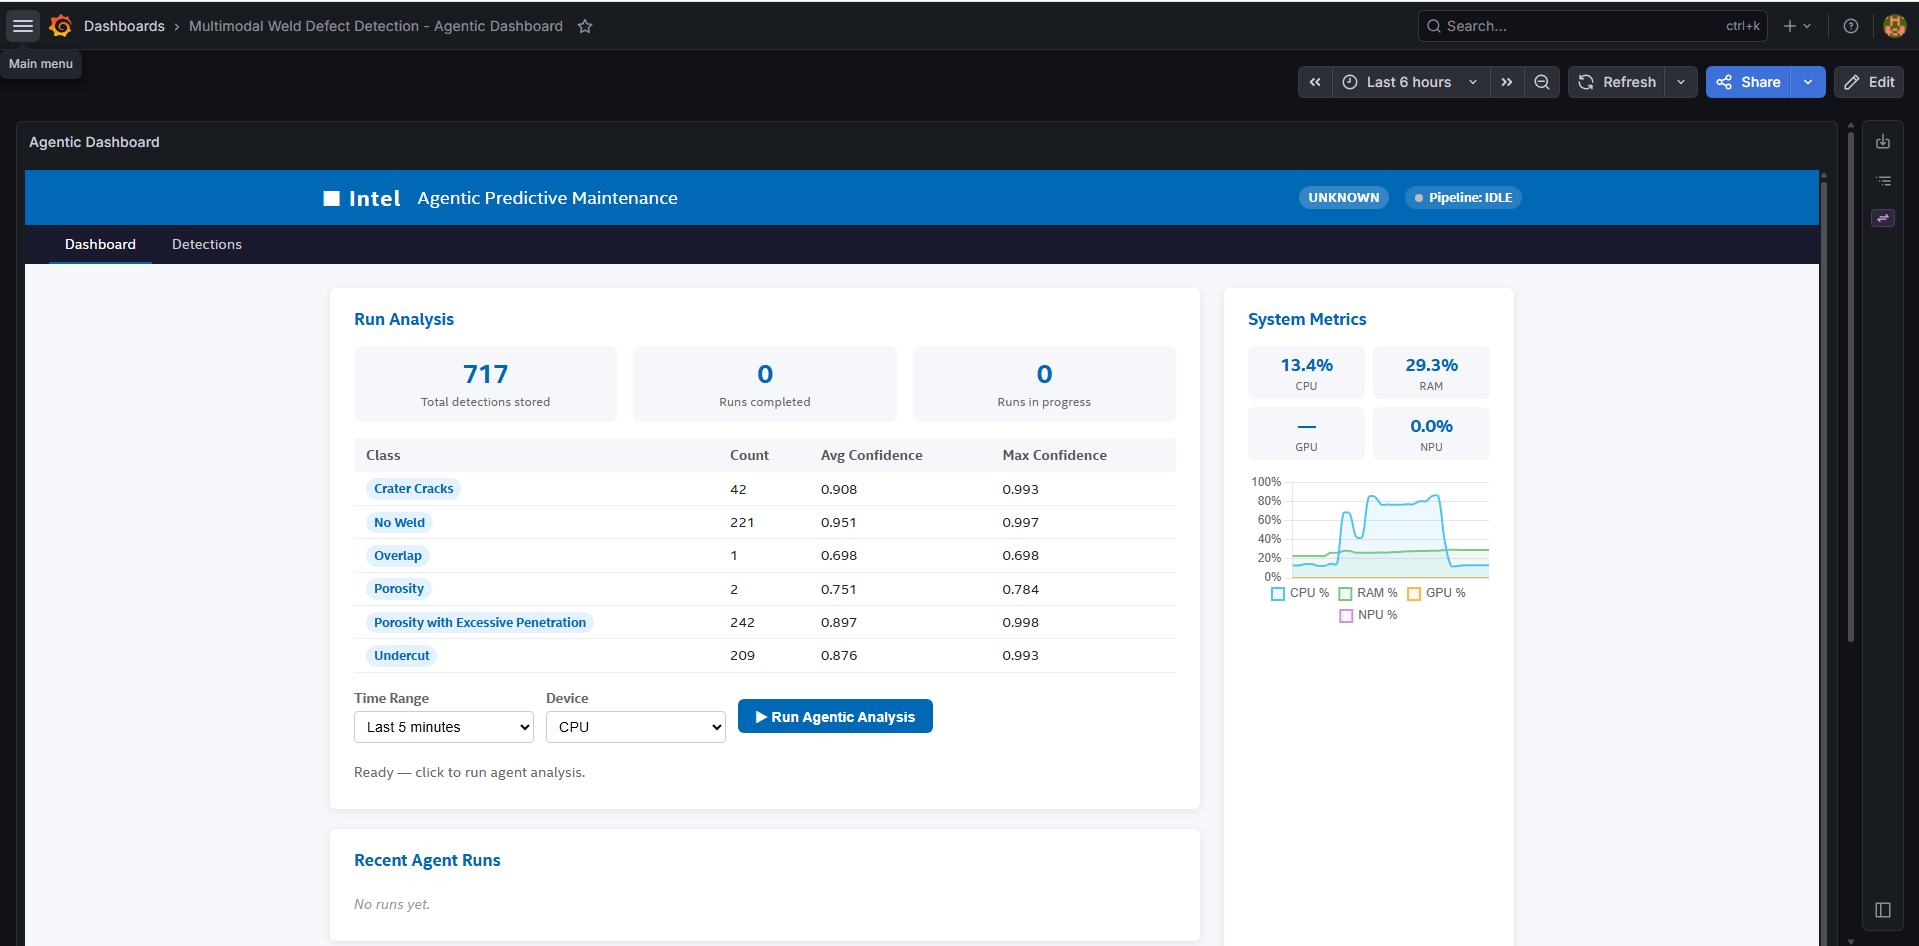
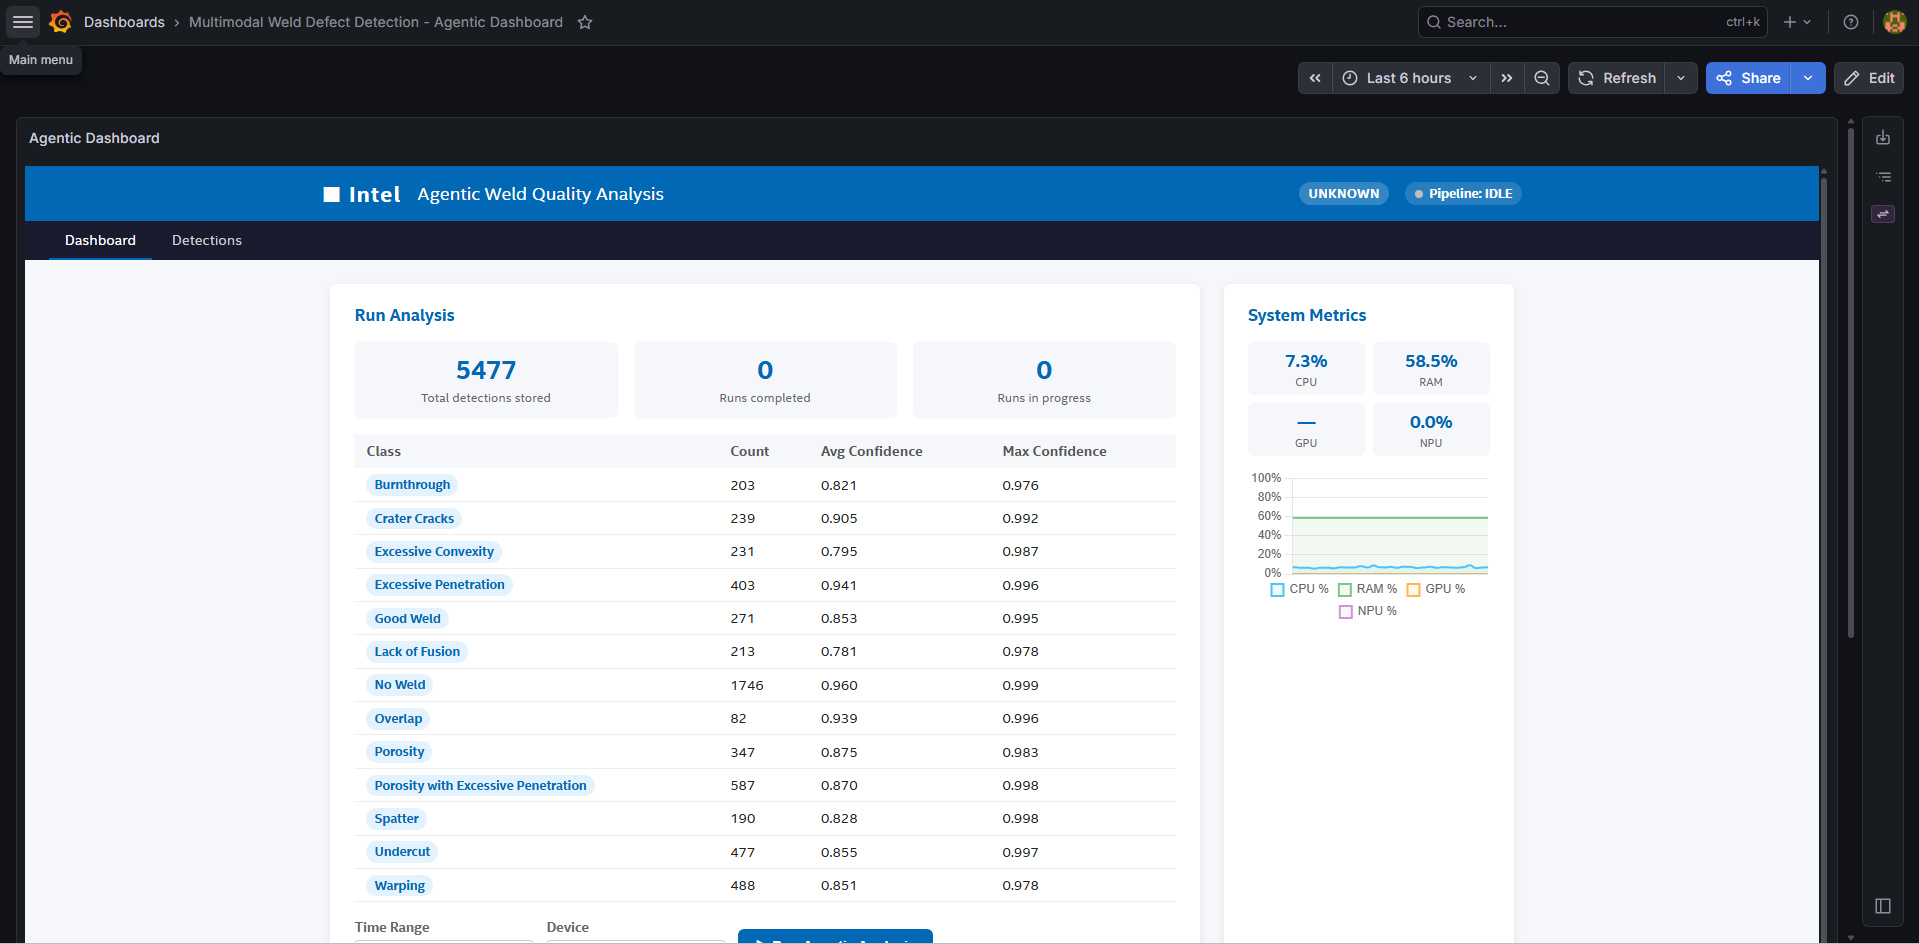
Name update

diff --git a/manufacturing-ai-suite/industrial-edge-insights-multimodal/ui-service/src/app.py b/manufacturing-ai-suite/industrial-edge-insights-multimodal/ui-service/src/app.py
@@ -1,7 +1,7 @@
 # Copyright (C) 2026 Intel Corporation
 # SPDX-License-Identifier: Apache-2.0
 
-"""UI service — FastAPI web application for the agentic predictive maintenance blueprint.
+"""UI service — FastAPI web application for the Agentic Weld Quality Analysis blueprint.
 
 Talks to the detection layer and the agent (reasoning) layer as two
 independent backends, correlated only by a shared ``run_id``:
